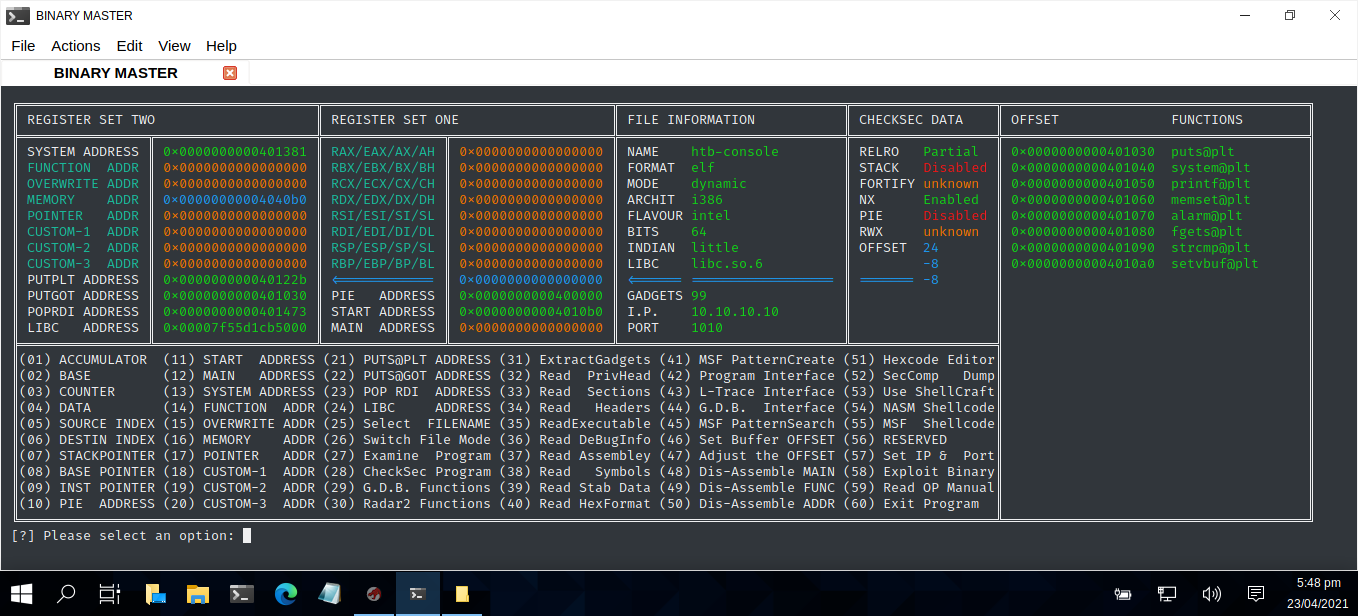
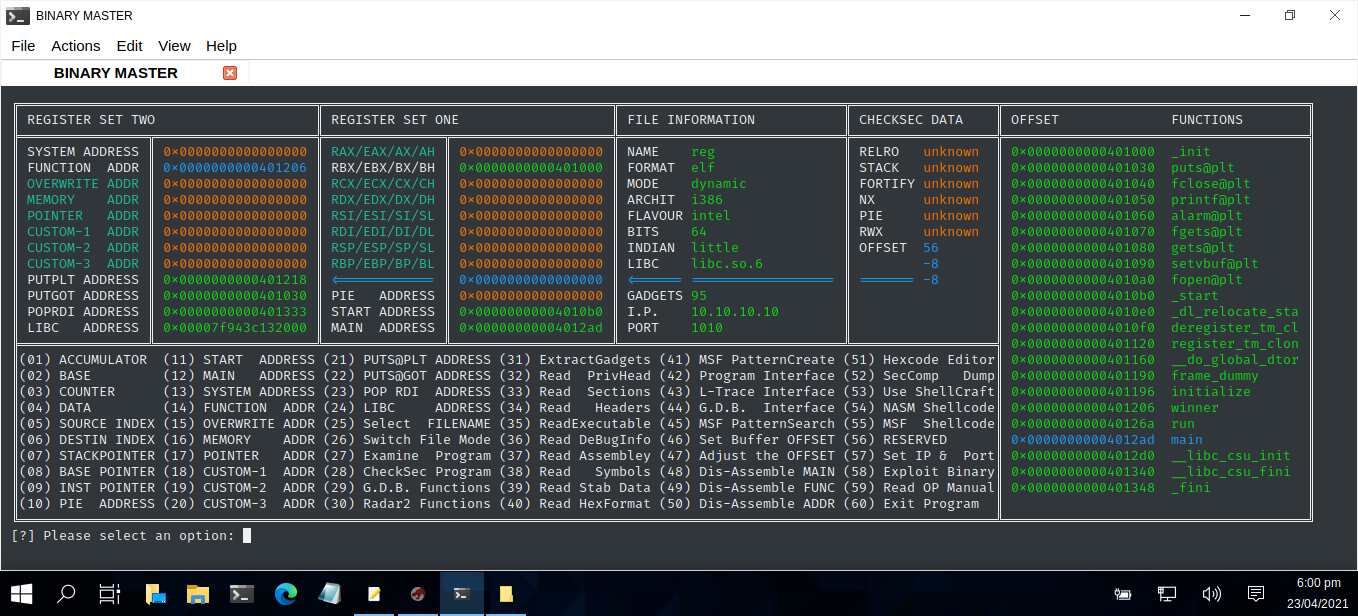
Full Stack

diff --git a/BinaryMaster.py b/BinaryMaster.py
@@ -195,7 +195,7 @@ def dispMenu():
    print('\u2560' + ('\u2550')*16 + '\u2566' + ('\u2550')*20 + '\u256C' + ('\u2550')*15 + '\u2566' + ('\u2550')*20 + '\u256C' + ('\u2550')*28 + '\u256C' + ('\u2550')*18 + '\u256C' +  ('\u2550')*38 + '\u2563')   
 # -- -- -- -- -- -- -- -- -- -- -- -- -- -- -- -- -- -- -- -- -- --- -- -- --- -  
    for x in range(0,12):
-      if (x in range(1, 8)):
+      if (x in range(1, 8)) and (REG2[x] == "0x0000000000000000"):
          print('\u2551' + colored(HED1[x][:16],colour2) + '\u2551', end=' ')
       else:
          print('\u2551' + HED1[x][:16] + '\u2551', end=' ')         
@@ -206,7 +206,7 @@ def dispMenu():
             print(colored(REG2[x],colour3), end=' ')            
          else:
             print(colored(REG2[x],colour6), end=' ')      
-      if (x in range(0,9)):
+      if (x in range(0,9)) and (REG1[x] == "0x0000000000000000"):
          if "<============" in HED2[x]:
             print('\u2551' + colored(HED2[x][:15], colour3) + '\u2551', end=' ')
          else:

diff --git a/README.md b/README.md
@@ -6,7 +6,7 @@
 
 **INSTALLATION INSTRUCTIONS**
 
-        BIN MASTER (BETA Version 3.0)
+        BIN MASTER (BETA Version 4.0)
         -------------------------------------------------------
         git clone https://github.com/BroadbentT/BIN-MASTER.git 
 <br>
@@ -24,7 +24,7 @@ USAGE : python3 BinaryMaster.py
 
 | LANGUAGE  | FILENAME        | MD5 Hash                         | DESCRIPTION    | VERSION    |
 |------     |------           | -------                          | ------         | ----       |
-| python3   | BinaryMaster.py | 95abd02ec16efe17bfa8c9148065b954 | Command Centre | Full Stack |
+| python3   | BinaryMaster.py | 8a1e8ada1bf8ebf2223c38f0be9a1fed | Command Centre | Full Stack |
 
 	[x] Database not currently linked - expected on version alpha.
 
